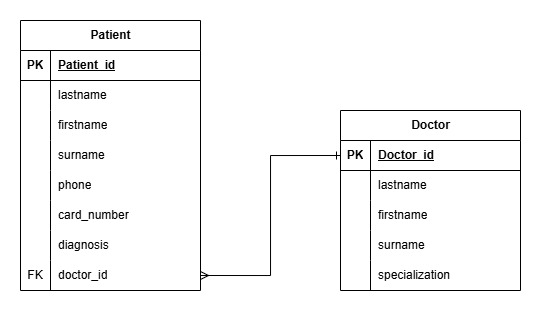
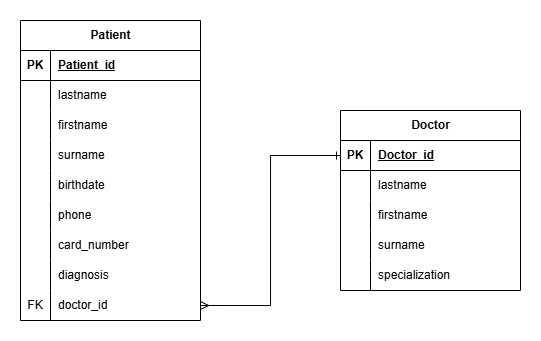
Added models + fixed database

diff --git a/Hospital/Database/Models/human.rb b/Hospital/Database/Models/human.rb
@@ -1,0 +1,57 @@
+class Human
+  attr_reader :id, :phone, :card_number
+
+  def initialize(id: nil, phone: nil, card_number: nil)
+		self.id = id if id
+    self.phone = phone if phone
+    self.card_number = card_number if card_number
+	end
+  
+  PHONE_REGEX = /^\+7\d{10}$/
+  CARD_NUMBER_REGEX = /^\d{7}$/
+
+  def id=(val)
+    if self.class.valid_id?(val)
+      @id = val
+    else
+      raise ArgumentError, "Некорректный ID"
+    end
+  end
+
+  def phone=(val)
+    if self.class.valid_phone?(val)
+      @phone = val
+    else
+      raise ArgumentError, "Некорректный номер телефона"
+    end
+  end
+
+  def card_number=(val)
+    if self.class.valid_card_number?(val)
+      @card_number = val
+    else
+      raise ArgumentError, "Некорректный номер карты"
+    end
+  end
+
+  def self.valid_id?(id)
+		id.is_a?(Integer) && id > 0
+	end
+
+  def self.valid_phone?(phone)
+    phone =~ PHONE_REGEX
+  end
+
+  def self.valid_card_number?(card_number)
+    phone =~ CARD_NUMBER_REGEX
+  end
+
+  def self.valid_name?(name)
+    raise NotImplementedError, "Метод не реализован в классе Human"
+  end
+
+  def self.valid_birthdate?(birthdate)
+		raise NotImplementedError, "Метод не реализован в классе Human"
+	end
+
+end

diff --git a/Hospital/Database/Models/patient.rb b/Hospital/Database/Models/patient.rb
@@ -1,0 +1,18 @@
+require_relative './human'
+require 'date'
+
+class Patient < Human
+  attr_reader :lastname, :firstname, :surname, :birth_date, :diagnosis
+
+  NAME_REGEX = /^[А-ЯЁ][а-яё]+\s*$/
+
+  def initialize(lastname:, firstname:, surname:, id: nil, phone: nil, birth_date: nil, diagnosis: nil)
+    self.lastname = lastname
+    self.firstname = firstname
+    self.surname = surname
+    self.birth_date = birth_date if birth_date
+    self.diagnosis = diagnosis if diagnosis
+
+    super(id: id, phone: phone, card_number: card_number)
+  end
+end
